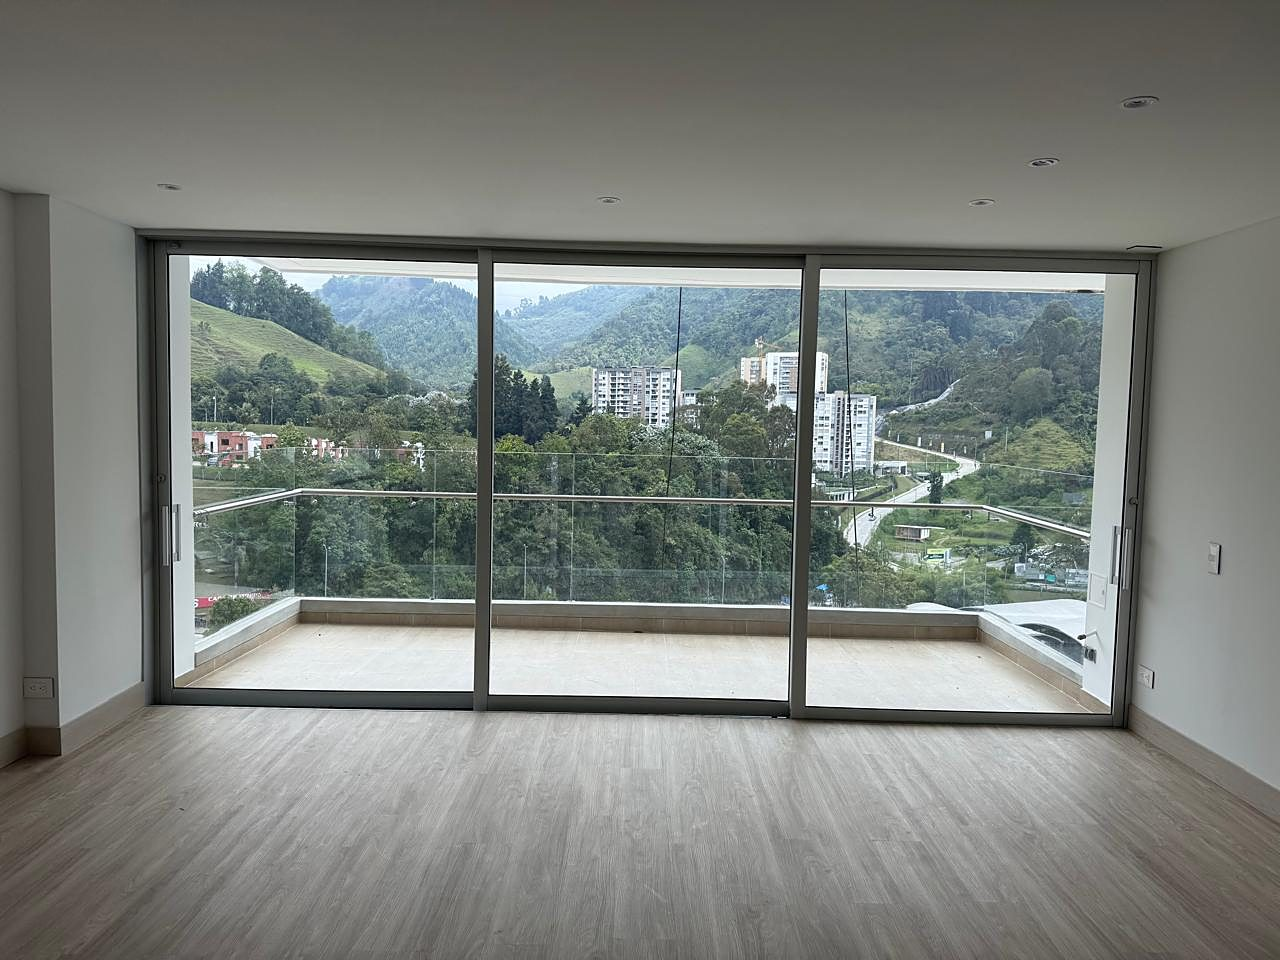
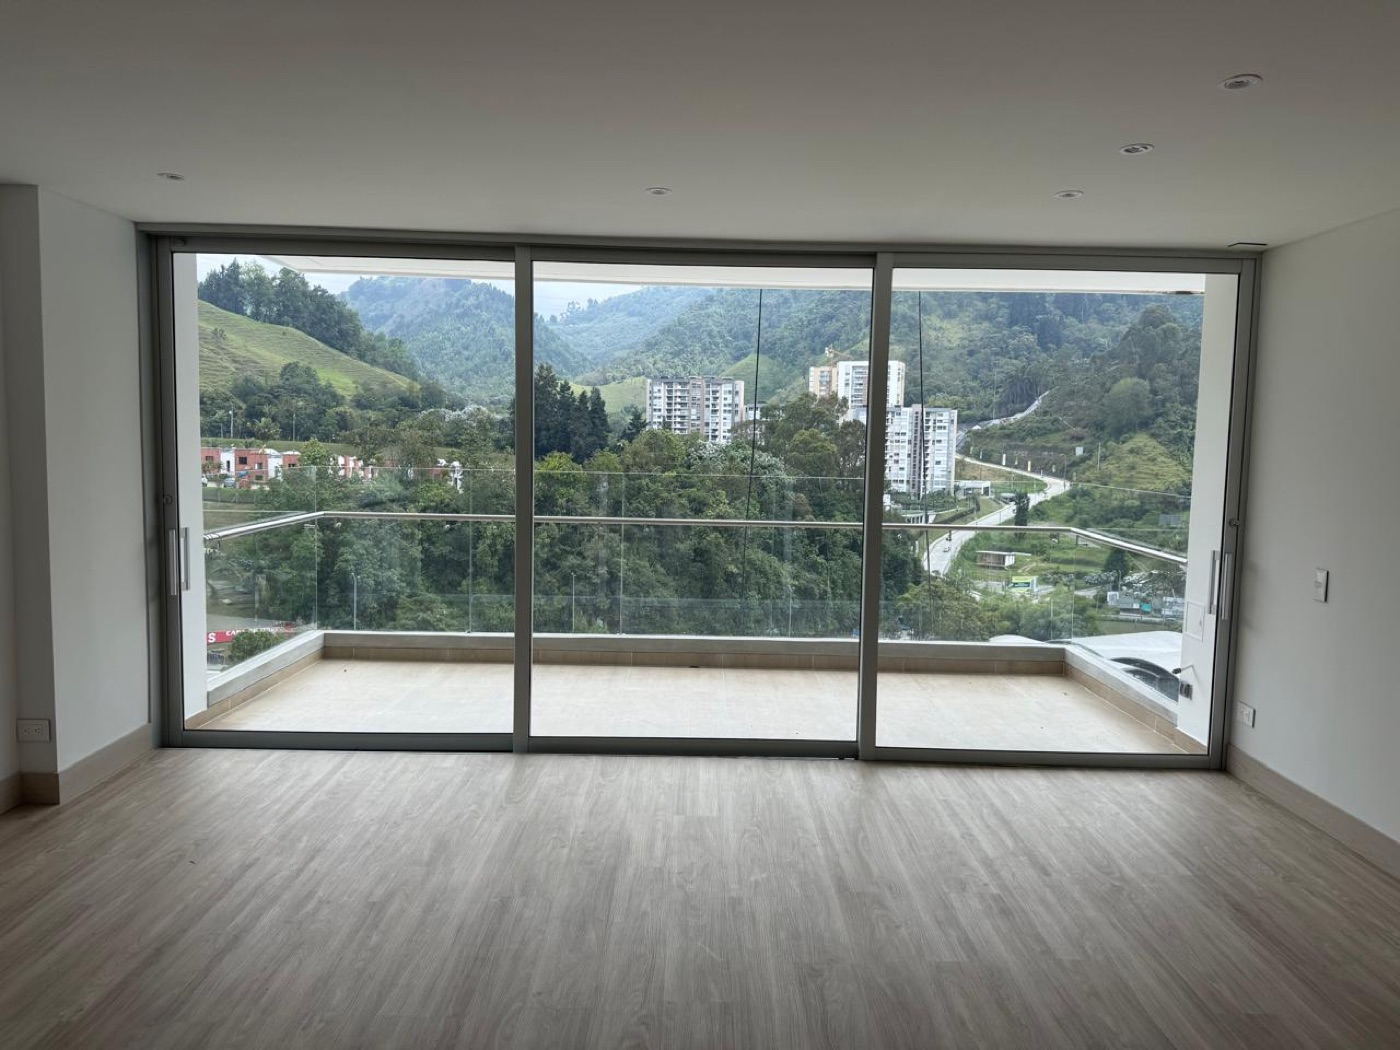
Sectores: de 5 a 10, reales de Ibonne y ordenados por nivel premium
- Palermo, El Cable, Milán, San Marcel, Toscana, La Rambla, Bella Suiza, Expoferias, La Florida, Los Rosales
- Ranking premium basado en investigación (estrato/zona/demanda) cruzada con los sectores documentados de Ibonne
- Cada sector con coordenadas reales (OpenStreetMap/Nominatim): el mapa se recentra al seleccionar
- Fotos nuevas por sector, sin repetir

diff --git a/index.html b/index.html
@@ -161,75 +161,130 @@
   <div class="container">
     <div class="section-head center reveal">
       <p class="eyebrow">Sectores</p>
-      <h2 class="section-title">Conozco estos cinco a fondo.</h2>
-      <p class="section-lead">Cada zona rinde distinto: una para vivir, otra para rentar todo el año, otra para el descanso. Elige un sector y mira por qué.</p>
+      <h2 class="section-title">Los sectores premium que manejo, en orden.</h2>
+      <p class="section-lead">Del más exclusivo al de mejor renta: los sectores premium de Manizales que conozco a fondo. Toca uno y mira por qué —y dónde queda en el mapa.</p>
     </div>
 
     <div class="sector-explorer reveal">
       <!-- Mapa real de Manizales (se recentra según el sector) -->
       <div class="sector-map">
-        <iframe id="sectorMap" title="Mapa del sector en Manizales" loading="lazy" referrerpolicy="no-referrer-when-downgrade" src="https://www.openstreetmap.org/export/embed.html?bbox=-75.49360,5.04536,-75.46560,5.06536&layer=mapnik&marker=5.05536,-75.47960"></iframe>
-        <a class="map-open" id="mapOpen" href="https://www.openstreetmap.org/?mlat=5.05536&mlon=-75.47960#map=15/5.05536/-75.47960" target="_blank" rel="noopener">Ver en el mapa ↗</a>
+        <iframe id="sectorMap" title="Mapa del sector en Manizales" loading="lazy" referrerpolicy="no-referrer-when-downgrade" src="https://www.openstreetmap.org/export/embed.html?bbox=-75.50264,5.04144,-75.47464,5.06144&layer=mapnik&marker=5.05144,-75.48864"></iframe>
+        <a class="map-open" id="mapOpen" href="https://www.openstreetmap.org/?mlat=5.05144&mlon=-75.48864#map=15/5.05144/-75.48864" target="_blank" rel="noopener">Ver en el mapa ↗</a>
       </div>
 
       <!-- Panel -->
       <div class="sector-panel">
         <div class="sector-tabs" role="tablist" aria-label="Sectores de Manizales">
-          <button class="sector-tab is-active" role="tab" data-sector="0" data-lat="5.05536" data-lon="-75.47960" aria-selected="true">Baja Suiza</button>
-          <button class="sector-tab" role="tab" data-sector="1" data-lat="5.04590" data-lon="-75.47986" aria-selected="false" tabindex="-1">Milán</button>
-          <button class="sector-tab" role="tab" data-sector="2" data-lat="5.05634" data-lon="-75.48642" aria-selected="false" tabindex="-1">El Cable</button>
-          <button class="sector-tab" role="tab" data-sector="3" data-lat="5.04142" data-lon="-75.47536" aria-selected="false" tabindex="-1">Expoferias</button>
-          <button class="sector-tab" role="tab" data-sector="4" data-lat="5.03385" data-lon="-75.48500" aria-selected="false" tabindex="-1">La Florida</button>
+          <button class="sector-tab is-active" role="tab" data-sector="0" data-lat="5.05144" data-lon="-75.48864" aria-selected="true">Palermo</button>
+          <button class="sector-tab" role="tab" data-sector="1" data-lat="5.05634" data-lon="-75.48642" aria-selected="false" tabindex="-1">El Cable</button>
+          <button class="sector-tab" role="tab" data-sector="2" data-lat="5.04590" data-lon="-75.47986" aria-selected="false" tabindex="-1">Milán</button>
+          <button class="sector-tab" role="tab" data-sector="3" data-lat="5.03566" data-lon="-75.46963" aria-selected="false" tabindex="-1">San Marcel</button>
+          <button class="sector-tab" role="tab" data-sector="4" data-lat="5.06101" data-lon="-75.48342" aria-selected="false" tabindex="-1">Toscana</button>
+          <button class="sector-tab" role="tab" data-sector="5" data-lat="5.05889" data-lon="-75.48588" aria-selected="false" tabindex="-1">La Rambla</button>
+          <button class="sector-tab" role="tab" data-sector="6" data-lat="5.05804" data-lon="-75.48084" aria-selected="false" tabindex="-1">Bella Suiza</button>
+          <button class="sector-tab" role="tab" data-sector="7" data-lat="5.04142" data-lon="-75.47536" aria-selected="false" tabindex="-1">Expoferias</button>
+          <button class="sector-tab" role="tab" data-sector="8" data-lat="5.03385" data-lon="-75.48500" aria-selected="false" tabindex="-1">La Florida</button>
+          <button class="sector-tab" role="tab" data-sector="9" data-lat="5.06209" data-lon="-75.48975" aria-selected="false" tabindex="-1">Los Rosales</button>
         </div>
         <div class="sector-stage">
           <div class="sector-view is-active" data-index="0" role="tabpanel">
-            <div class="sector-view-img"><span class="sector-view-tag">Norte</span><img src="images/sector-baja-suiza.jpg" alt="Conjunto residencial familiar en Baja Suiza, Manizales, con vista a las montañas" loading="lazy"></div>
+            <div class="sector-view-img"><span class="sector-view-tag">Estrato 6 · lo más top</span><img src="images/sector-palermo.jpg" alt="Interior de lujo con vista a las montañas en Palermo, Manizales" loading="lazy"></div>
             <div class="sector-view-body">
-              <h3 class="sector-view-name">Baja Suiza</h3>
-              <p class="sector-view-kicker">Para vivir tranquilo.</p>
-              <p class="sector-view-detail">Conjuntos familiares del norte. La gente llega y se queda —por eso la plusvalía se sostiene. Tranquilidad que, además, se valoriza.</p>
-              <span class="sector-fact">Familiar · plusvalía estable</span>
-              <a href="https://wa.me/573104973336?text=Hola%20Ibonne%2C%20me%20interesa%20el%20sector%20Baja%20Suiza%20en%20Manizales." class="sector-view-link" target="_blank" rel="noopener">Hablemos de Baja Suiza <span aria-hidden="true">→</span></a>
+              <h3 class="sector-view-name">Palermo</h3>
+              <p class="sector-view-kicker">El más exclusivo de la ciudad.</p>
+              <p class="sector-view-detail">Estrato 6, entre las universidades y el Cerro Sancancio. Casas y apartamentos de lujo con las mejores vistas —y la mejor mesa— de Manizales. Lo más cotizado.</p>
+              <span class="sector-fact">Estrato 6 · máxima valorización</span>
+              <a href="https://wa.me/573104973336?text=Hola%20Ibonne%2C%20me%20interesa%20el%20sector%20Palermo%20en%20Manizales." class="sector-view-link" target="_blank" rel="noopener">Hablemos de Palermo <span aria-hidden="true">→</span></a>
             </div>
           </div>
           <div class="sector-view" data-index="1" role="tabpanel">
-            <div class="sector-view-img"><span class="sector-view-tag">Norte premium</span><img src="images/sector-milan.jpg" alt="Apartamento premium con ventanal panorámico en Milán, Manizales" loading="lazy"></div>
-            <div class="sector-view-body">
-              <h3 class="sector-view-name">Milán</h3>
-              <p class="sector-view-kicker">Exclusivo y escaso.</p>
-              <p class="sector-view-detail">Lo más top del norte. Hay poco y todos lo quieren, así que se valoriza rápido. Cuando sale algo bueno, vuela.</p>
-              <span class="sector-fact">Premium · alta demanda</span>
-              <a href="https://wa.me/573104973336?text=Hola%20Ibonne%2C%20me%20interesa%20el%20sector%20Mil%C3%A1n%20en%20Manizales." class="sector-view-link" target="_blank" rel="noopener">Hablemos de Milán <span aria-hidden="true">→</span></a>
-            </div>
-          </div>
-          <div class="sector-view" data-index="2" role="tabpanel">
             <div class="sector-view-img"><span class="sector-view-tag">Centro</span><img src="images/sector-el-cable.jpg" alt="Vista panorámica de la ciudad de Manizales desde el sector El Cable" loading="lazy"></div>
             <div class="sector-view-body">
               <h3 class="sector-view-name">El Cable</h3>
-              <p class="sector-view-kicker">Para rentar sin parar.</p>
-              <p class="sector-view-detail">El corazón universitario y gastronómico, bajo la Torre del Cable. Estudiantes y profesionales todo el año: la vacancia aquí es casi nula.</p>
+              <p class="sector-view-kicker">El corazón que nunca para.</p>
+              <p class="sector-view-detail">Estrato 5-6, Cable Plaza. Centralidad, seguridad y edificios de alta gama. Se vive, se renta y casi nunca queda vacío.</p>
               <span class="sector-fact">Renta todo el año</span>
               <a href="https://wa.me/573104973336?text=Hola%20Ibonne%2C%20me%20interesa%20el%20sector%20El%20Cable%20en%20Manizales." class="sector-view-link" target="_blank" rel="noopener">Hablemos de El Cable <span aria-hidden="true">→</span></a>
             </div>
           </div>
-          <div class="sector-view" data-index="3" role="tabpanel">
-            <div class="sector-view-img"><span class="sector-view-tag">Universitario y clínico</span><img src="images/sector-expoferias.jpg" alt="Sala luminosa con vista verde en Expoferias, Manizales" loading="lazy"></div>
+          <div class="sector-view" data-index="2" role="tabpanel">
+            <div class="sector-view-img"><span class="sector-view-tag">Estrato 6</span><img src="images/sector-milan.jpg" alt="Apartamento de lujo con ventanal panorámico en Milán, Manizales" loading="lazy"></div>
             <div class="sector-view-body">
-              <h3 class="sector-view-name">Expoferias</h3>
-              <p class="sector-view-kicker">Renta segura, todo el año.</p>
-              <p class="sector-view-detail">Universidades y clínicas al lado. La ocupación no cae ni en vacaciones. Si buscas un flujo estable, empieza por aquí.</p>
-              <span class="sector-fact">Ocupación constante</span>
-              <a href="https://wa.me/573104973336?text=Hola%20Ibonne%2C%20me%20interesa%20el%20sector%20Expoferias%20en%20Manizales." class="sector-view-link" target="_blank" rel="noopener">Hablemos de Expoferias <span aria-hidden="true">→</span></a>
+              <h3 class="sector-view-name">Milán</h3>
+              <p class="sector-view-kicker">Lujo con vista al Nevado.</p>
+              <p class="sector-view-detail">Estrato 6 sobre la Carrera 23, de las zonas que más se valorizan. Apartamentos de lujo, con universidades y centros comerciales al lado.</p>
+              <span class="sector-fact">Estrato 6 · alta valorización</span>
+              <a href="https://wa.me/573104973336?text=Hola%20Ibonne%2C%20me%20interesa%20el%20sector%20Mil%C3%A1n%20en%20Manizales." class="sector-view-link" target="_blank" rel="noopener">Hablemos de Milán <span aria-hidden="true">→</span></a>
+            </div>
+          </div>
+          <div class="sector-view" data-index="3" role="tabpanel">
+            <div class="sector-view-img"><span class="sector-view-tag">Estrato 6</span><img src="images/sector-san-marcel.jpg" alt="Sala amplia con vista verde en San Marcel, Manizales" loading="lazy"></div>
+            <div class="sector-view-body">
+              <h3 class="sector-view-name">San Marcel</h3>
+              <p class="sector-view-kicker">Alto nivel, muy apetecido.</p>
+              <p class="sector-view-detail">Estrato 6, contiguo a Palermo y Sancancio. Apartamentos y casas de alto nivel en el eje más cotizado de la comuna Palogrande.</p>
+              <span class="sector-fact">Estrato 6 · residencial premium</span>
+              <a href="https://wa.me/573104973336?text=Hola%20Ibonne%2C%20me%20interesa%20el%20sector%20San%20Marcel%20en%20Manizales." class="sector-view-link" target="_blank" rel="noopener">Hablemos de San Marcel <span aria-hidden="true">→</span></a>
             </div>
           </div>
           <div class="sector-view" data-index="4" role="tabpanel">
+            <div class="sector-view-img"><span class="sector-view-tag">Conjuntos cerrados</span><img src="images/sector-toscana.jpg" alt="Terraza con zonas verdes en un conjunto de Toscana, Manizales" loading="lazy"></div>
+            <div class="sector-view-body">
+              <h3 class="sector-view-name">Toscana</h3>
+              <p class="sector-view-kicker">Exclusividad con amenidades.</p>
+              <p class="sector-view-detail">Estrato 5-6. Conjuntos cerrados con amplias zonas sociales; tranquilidad y seguridad para vivir bien, en el norte.</p>
+              <span class="sector-fact">Conjunto cerrado · amenidades</span>
+              <a href="https://wa.me/573104973336?text=Hola%20Ibonne%2C%20me%20interesa%20el%20sector%20Toscana%20en%20Manizales." class="sector-view-link" target="_blank" rel="noopener">Hablemos de Toscana <span aria-hidden="true">→</span></a>
+            </div>
+          </div>
+          <div class="sector-view" data-index="5" role="tabpanel">
+            <div class="sector-view-img"><span class="sector-view-tag">Palogrande</span><img src="images/sector-la-rambla.jpg" alt="Vista panorámica de la ciudad desde La Rambla, Manizales" loading="lazy"></div>
+            <div class="sector-view-body">
+              <h3 class="sector-view-name">La Rambla</h3>
+              <p class="sector-view-kicker">Renta que no falla.</p>
+              <p class="sector-view-detail">Estrato 5-6 en Palogrande, junto a las universidades. Alta demanda de profesionales y estudiantes de posgrado durante todo el año.</p>
+              <span class="sector-fact">Demanda de arriendo alta</span>
+              <a href="https://wa.me/573104973336?text=Hola%20Ibonne%2C%20me%20interesa%20el%20sector%20La%20Rambla%20en%20Manizales." class="sector-view-link" target="_blank" rel="noopener">Hablemos de La Rambla <span aria-hidden="true">→</span></a>
+            </div>
+          </div>
+          <div class="sector-view" data-index="6" role="tabpanel">
+            <div class="sector-view-img"><span class="sector-view-tag">Suiza · Alhambra</span><img src="images/sector-bella-suiza.jpg" alt="Conjunto residencial en Bella Suiza, Manizales, con vista a las montañas" loading="lazy"></div>
+            <div class="sector-view-body">
+              <h3 class="sector-view-name">Bella Suiza</h3>
+              <p class="sector-view-kicker">Lujo tranquilo, cerca de todo.</p>
+              <p class="sector-view-detail">Sector Suiza-Alhambra, estrato 5, con edificios de lujo a pasos de Palermo. Residencial consolidado y familiar.</p>
+              <span class="sector-fact">Residencial consolidado</span>
+              <a href="https://wa.me/573104973336?text=Hola%20Ibonne%2C%20me%20interesa%20el%20sector%20Bella%20Suiza%20en%20Manizales." class="sector-view-link" target="_blank" rel="noopener">Hablemos de Bella Suiza <span aria-hidden="true">→</span></a>
+            </div>
+          </div>
+          <div class="sector-view" data-index="7" role="tabpanel">
+            <div class="sector-view-img"><span class="sector-view-tag">Av. Santander</span><img src="images/sector-expoferias.jpg" alt="Sala luminosa con vista verde en Expoferias, Manizales" loading="lazy"></div>
+            <div class="sector-view-body">
+              <h3 class="sector-view-name">Expoferias</h3>
+              <p class="sector-view-kicker">La zona que está subiendo.</p>
+              <p class="sector-view-detail">Estrato 6 en pleno desarrollo sobre la Av. Santander. Edificios nuevos con grandes zonas sociales; mezcla de residencia y comercio.</p>
+              <span class="sector-fact">En desarrollo · alta plusvalía</span>
+              <a href="https://wa.me/573104973336?text=Hola%20Ibonne%2C%20me%20interesa%20el%20sector%20Expoferias%20en%20Manizales." class="sector-view-link" target="_blank" rel="noopener">Hablemos de Expoferias <span aria-hidden="true">→</span></a>
+            </div>
+          </div>
+          <div class="sector-view" data-index="8" role="tabpanel">
             <div class="sector-view-img"><span class="sector-view-tag">Villamaría</span><img src="images/sector-la-florida.jpg" alt="Terraza campestre con vista al Nevado en La Florida, Villamaría" loading="lazy"></div>
             <div class="sector-view-body">
               <h3 class="sector-view-name">La Florida <span style="font-weight:500;color:var(--ink-soft);font-size:.7em">· Villamaría</span></h3>
               <p class="sector-view-kicker">Campo con vista al Nevado.</p>
-              <p class="sector-view-detail">En Villamaría, a minutos de la ciudad. Despiertas con el Nevado al frente. Calidad de vida hoy y un activo que se aprecia mañana.</p>
+              <p class="sector-view-detail">En Villamaría: condominios cerrados y casas de lujo con vista al Nevado del Ruiz. Naturaleza y exclusividad a minutos de la ciudad.</p>
               <span class="sector-fact">Campestre · vista al Nevado</span>
               <a href="https://wa.me/573104973336?text=Hola%20Ibonne%2C%20me%20interesa%20el%20sector%20La%20Florida%2C%20Villamar%C3%ADa." class="sector-view-link" target="_blank" rel="noopener">Hablemos de La Florida <span aria-hidden="true">→</span></a>
+            </div>
+          </div>
+          <div class="sector-view" data-index="9" role="tabpanel">
+            <div class="sector-view-img"><span class="sector-view-tag">Palogrande</span><img src="images/sector-los-rosales.jpg" alt="Atardecer sobre Manizales desde Los Rosales" loading="lazy"></div>
+            <div class="sector-view-body">
+              <h3 class="sector-view-name">Los Rosales</h3>
+              <p class="sector-view-kicker">Ubicación que renta sola.</p>
+              <p class="sector-view-detail">Estrato 5 en Palogrande, junto a las universidades. Prestigio y excelente demanda de arriendo estudiantil y profesional.</p>
+              <span class="sector-fact">Renta estudiantil y profesional</span>
+              <a href="https://wa.me/573104973336?text=Hola%20Ibonne%2C%20me%20interesa%20el%20sector%20Los%20Rosales%20en%20Manizales." class="sector-view-link" target="_blank" rel="noopener">Hablemos de Los Rosales <span aria-hidden="true">→</span></a>
             </div>
           </div>
         </div>